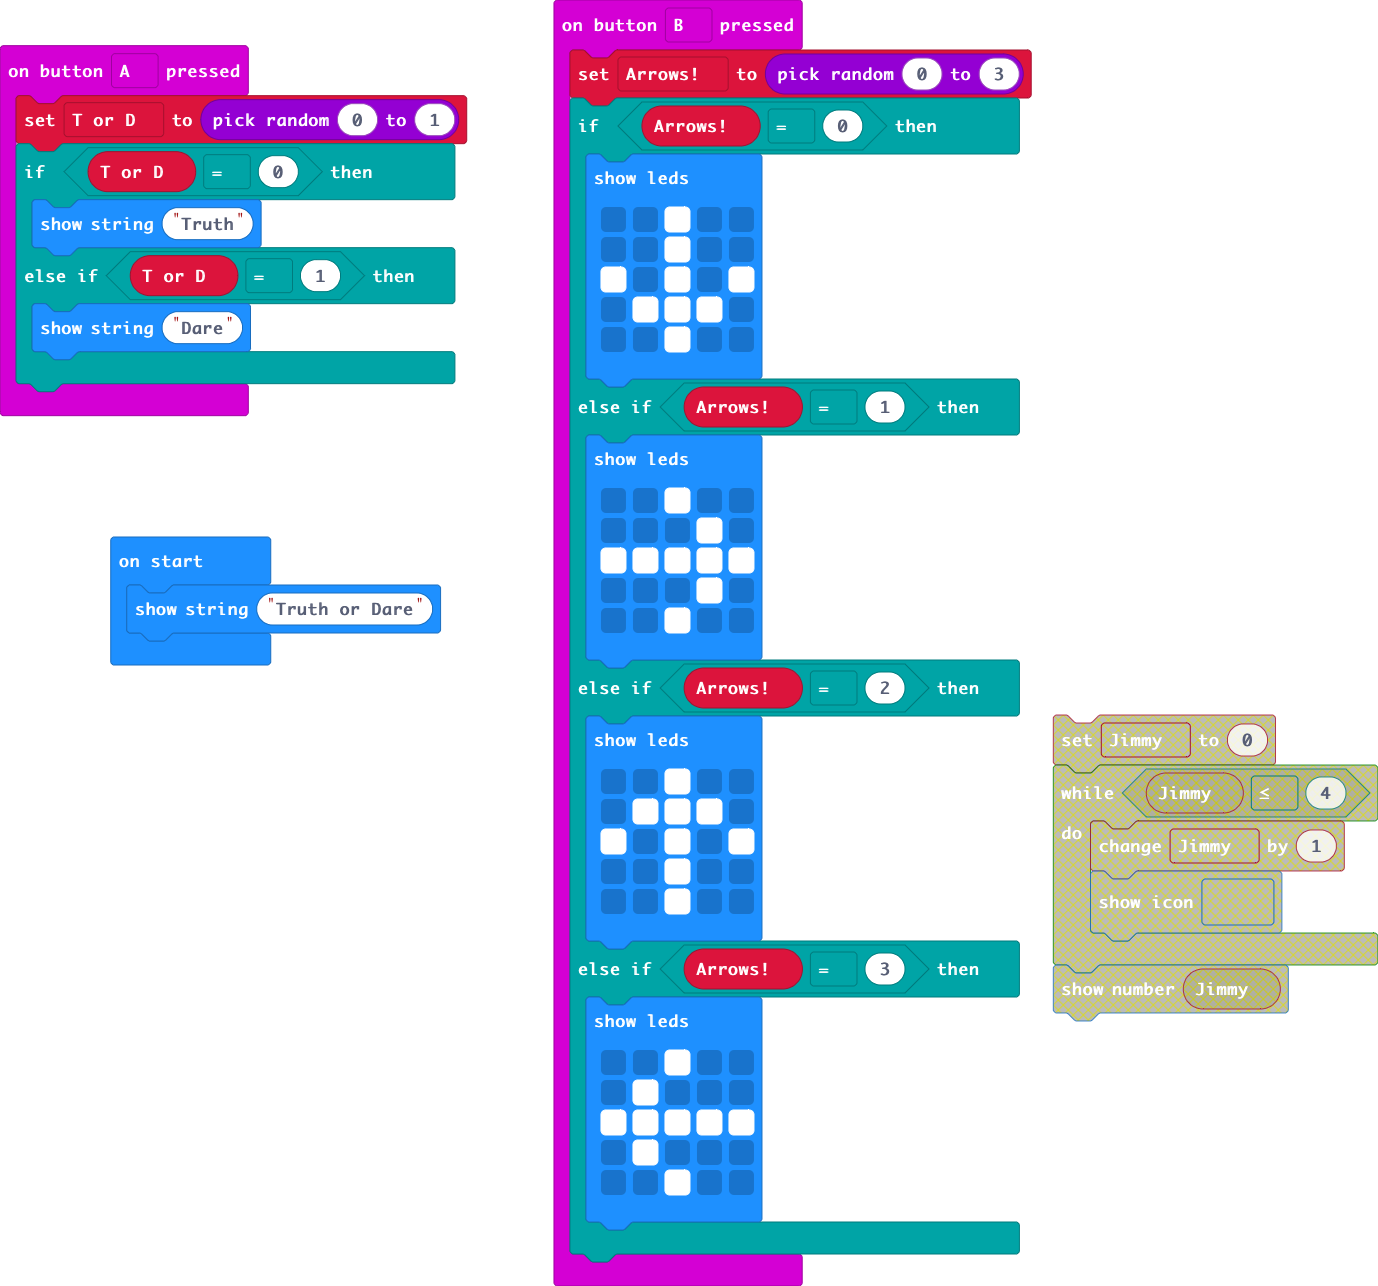
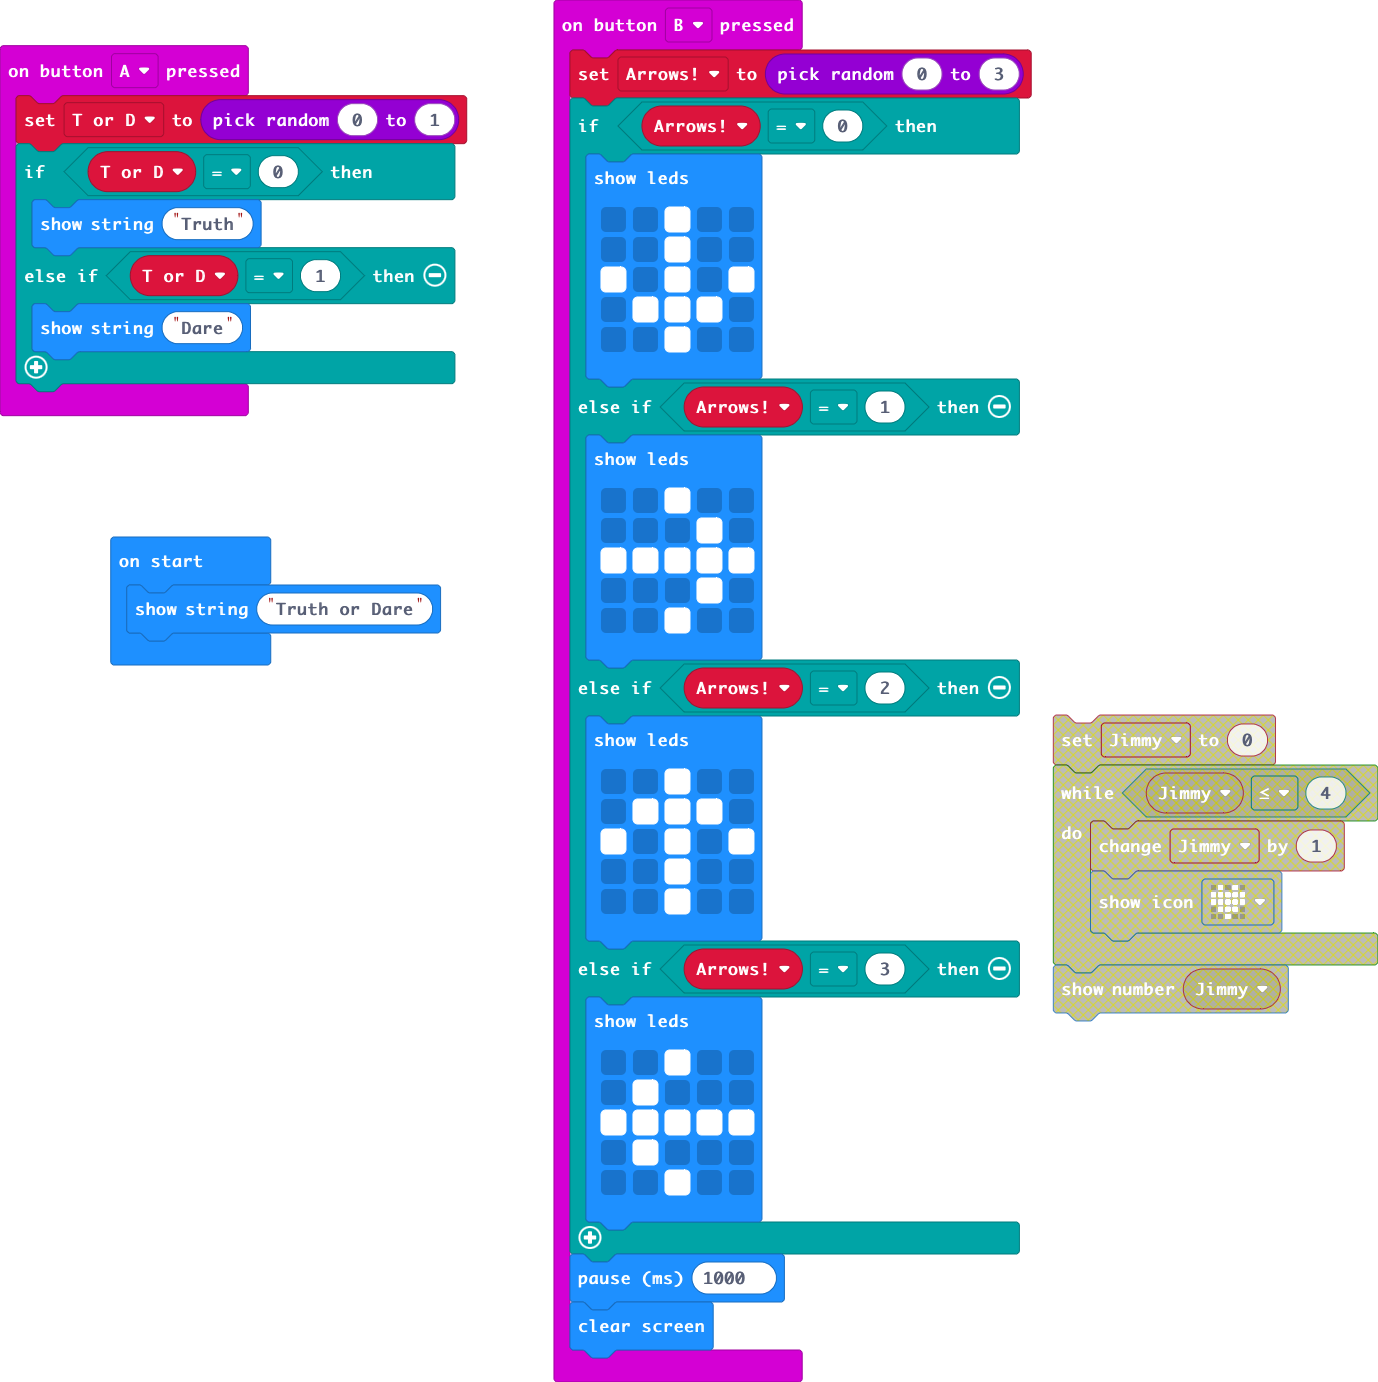
Timer pause

Changed region(s): [[0.4057, 0.0, 1.0, 0.9953], [0.0, 0.0311, 0.3433, 0.3421], [0.0624, 0.3733, 0.3433, 0.5288]]

diff --git a/main.ts b/main.ts
@@ -41,6 +41,8 @@ input.onButtonPressed(Button.B, function () {
             . . # . .
             `)
     }
+    basic.pause(1000)
+    basic.clearScreen()
 })
 let Arrows = 0
 let T_or_D = 0
